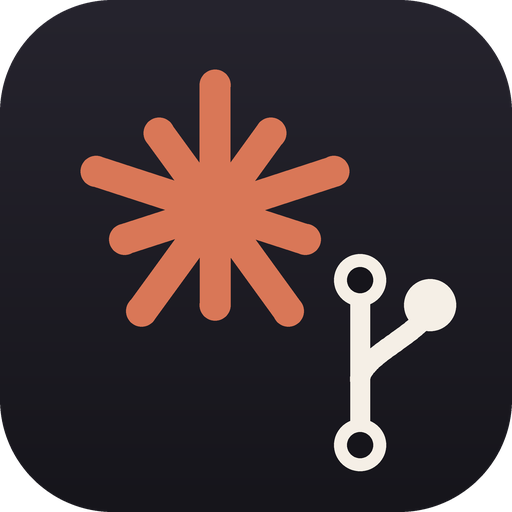
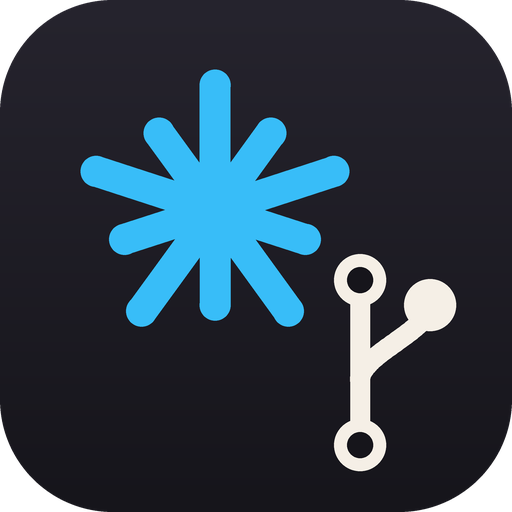
fix(listing): нова назва Commit Pen і блакитна іконка для Marketplace
- displayName: «Commit Pen: AI Commit Messages for Claude Code»
- зірочка в іконці тепер блакитна замість помаранчевої
- старі назви додано в keywords, щоб розширення знаходилось у пошуку
- ID розширення, команди й ключі налаштувань без змін

Changed region(s): [[0.1562, 0.125, 0.6875, 0.6562]]

diff --git a/src/extension.ts b/src/extension.ts
@@ -117,7 +117,7 @@ function getActiveRepository(git: GitAPI, sourceControl?: vscode.SourceControl):
 }
 
 export function activate(context: vscode.ExtensionContext): void {
-  log("Claude Git Commit extension activated");
+  log("Commit Pen extension activated");
   initApiKeyStorage(context);
 
   const generateCommit = vscode.commands.registerCommand(
@@ -164,7 +164,7 @@ export function activate(context: vscode.ExtensionContext): void {
         await vscode.window.withProgress(
           {
             location: vscode.ProgressLocation.Notification,
-            title: "Claude Git Commit",
+            title: "Commit Pen",
             cancellable: true,
           },
           async (progress, token) => {
@@ -309,7 +309,7 @@ async function handleCustomPrompt(repo: GitRepository): Promise<void> {
   const newMessage = await vscode.window.withProgress(
     {
       location: vscode.ProgressLocation.Notification,
-      title: "Claude Git Commit",
+      title: "Commit Pen",
       cancellable: true,
     },
     async (progress, token) => {
@@ -365,7 +365,7 @@ async function handleEditWithFeedback(repo: GitRepository, currentMessage: strin
   const newMessage = await vscode.window.withProgress(
     {
       location: vscode.ProgressLocation.Notification,
-      title: "Claude Git Commit",
+      title: "Commit Pen",
       cancellable: true,
     },
     async (progress, token) => {

diff --git a/src/utils/apiKey.ts b/src/utils/apiKey.ts
@@ -79,7 +79,7 @@ export async function suggestApiKeyMigration(context: vscode.ExtensionContext): 
   await context.globalState.update(MIGRATION_PROMPTED_KEY, true);
 
   const action = await vscode.window.showInformationMessage(
-    "Claude Git Commit: your Anthropic API key is stored in plain text in settings.json. Move it to secure storage?",
+    "Commit Pen: your Anthropic API key is stored in plain text in settings.json. Move it to secure storage?",
     "Move to Secure Storage",
     "Keep in Settings"
   );
@@ -91,7 +91,7 @@ export async function suggestApiKeyMigration(context: vscode.ExtensionContext): 
     await secrets.store(SECRET_KEY, settingKey);
     await config.update("apiKey", undefined, vscode.ConfigurationTarget.Global);
     vscode.window.showInformationMessage(
-      "API key moved to secure storage. Secure storage is not synced — run 'Claude Git Commit: Set Anthropic API Key' on your other machines."
+      "API key moved to secure storage. Secure storage is not synced — run 'Commit Pen: Set Anthropic API Key' on your other machines."
     );
   } catch (error) {
     vscode.window.showErrorMessage(

diff --git a/src/cli/execution.ts b/src/cli/execution.ts
@@ -348,7 +348,7 @@ export async function generateWithAPI(
 
   if (!apiKey) {
     throw new Error(
-      "ANTHROPIC_API_KEY not found. Run 'Claude Git Commit: Set Anthropic API Key' or set the ANTHROPIC_API_KEY environment variable."
+      "ANTHROPIC_API_KEY not found. Run 'Commit Pen: Set Anthropic API Key' or set the ANTHROPIC_API_KEY environment variable."
     );
   }
 
@@ -385,7 +385,7 @@ export async function generateWithAPI(
       throw new GenerationCancelledError();
     }
     if (error instanceof sdk.AuthenticationError) {
-      throw new Error("Invalid API key. Run 'Claude Git Commit: Set Anthropic API Key' to update it.");
+      throw new Error("Invalid API key. Run 'Commit Pen: Set Anthropic API Key' to update it.");
     }
     if (error instanceof sdk.RateLimitError) {
       throw new Error("Rate limit exceeded. Please wait and try again.");

diff --git a/src/generators/commit.ts b/src/generators/commit.ts
@@ -156,7 +156,7 @@ export async function generateCommitMessage(
       const err = error as Error;
       if (cliNotFound && err.message.includes("ANTHROPIC_API_KEY")) {
         throw new Error(
-          "Claude CLI not found and no API key configured. Either configure CLI path in settings or run 'Claude Git Commit: Set Anthropic API Key'."
+          "Claude CLI not found and no API key configured. Either configure CLI path in settings or run 'Commit Pen: Set Anthropic API Key'."
         );
       }
       throw withPrefix("API error", error);

diff --git a/src/utils/logger.ts b/src/utils/logger.ts
@@ -4,7 +4,7 @@ let outputChannel: vscode.OutputChannel | undefined;
 
 export function getOutputChannel(): vscode.OutputChannel {
   if (!outputChannel) {
-    outputChannel = vscode.window.createOutputChannel("Claude Git Commit");
+    outputChannel = vscode.window.createOutputChannel("Commit Pen");
   }
   return outputChannel;
 }

diff --git a/README.md b/README.md
@@ -1,19 +1,21 @@
-<p align="center"><img src="icon.png" width="128" alt="Claude Git Commit icon"></p>
+<p align="center"><img src="icon.png" width="128" alt="Commit Pen icon"></p>
 
-# Claude Git Commit
+# Commit Pen
 
 [![Install](https://img.shields.io/visual-studio-marketplace/i/ZakhariiMelnyk.claude-git-commit?style=for-the-badge&logo=visualstudiocode&label=Installs)](https://marketplace.visualstudio.com/items?itemName=ZakhariiMelnyk.claude-git-commit)
 [![Version](https://img.shields.io/visual-studio-marketplace/v/ZakhariiMelnyk.claude-git-commit?style=for-the-badge&logo=visualstudiocode)](https://marketplace.visualstudio.com/items?itemName=ZakhariiMelnyk.claude-git-commit)
 [![Rating](https://img.shields.io/visual-studio-marketplace/r/ZakhariiMelnyk.claude-git-commit?style=for-the-badge&logo=visualstudiocode)](https://marketplace.visualstudio.com/items?itemName=ZakhariiMelnyk.claude-git-commit)
 [![License](https://img.shields.io/github/license/uaoa/claude-commit-vscode?style=for-the-badge)](LICENSE)
 
-Claude Git Commit writes Git commit messages for you. It reads the diff of your repository, sends it to Claude through the Claude Code CLI you are signed in to (or through the Anthropic API, if you prefer), and puts the result into the Source Control input box. You review it, tweak it if needed, and commit.
+Commit Pen writes Git commit messages for you. It reads the diff of your repository, sends it to Claude through the Claude Code CLI you are signed in to (or through the Anthropic API, if you prefer), and puts the result into the Source Control input box. You review it, tweak it if needed, and commit.
 
-> Claude Git Commit is an independent, community-built extension. It is not made, endorsed or supported by Anthropic. "Claude" and "Claude Code" are trademarks of Anthropic and are used here only to describe what the extension works with.
+Formerly published as **Claude Git Commit**: same extension, same settings, updates continue automatically.
+
+> Commit Pen is an independent, community-built extension. It is not made, endorsed or supported by Anthropic. "Claude" and "Claude Code" are trademarks of Anthropic and are used here only to describe what the extension works with.
 
 ## Highlights
 
-- **Generate from the Source Control title bar.** One click on the `$(sparkle)` action, or run **Claude Git Commit: Generate Commit Message** from the Command Palette.
+- **Generate from the Source Control title bar.** One click on the `$(sparkle)` action, or run **Commit Pen: Generate Commit Message** from the Command Palette.
 - **CLI first, API as a fallback.** Uses the local Claude Code CLI when it is available, so no separate API key is needed. Switch to the Anthropic API with `claudeCommit.preferredMethod`.
 - **Finds the CLI on its own.** Looks in PATH, in the binary shipped with the Claude Code VS Code extension, in your shell profile and in common install folders. The order is configurable, and it works in WSL, Remote-SSH and dev containers.
 - **Your commit style.** Conventional Commits with or without scope, plain descriptions, or your own prompt template with `{diff}` and `{stats}` placeholders. Single-line or multi-line with body and footer, imperative or past tense.
@@ -22,7 +24,7 @@ Claude Git Commit writes Git commit messages for you. It reads the diff of your 
 - **Model choice.** Haiku, Sonnet or Opus, or any exact model ID via `claudeCommit.customModel`.
 - **Several repositories at once.** Picks the repository you clicked in, or the one that contains the active editor.
 - **Safe key storage.** The API key is kept in the OS secret storage, not in `settings.json`.
-- **Cancellable and transparent.** Stop a run from the progress notification; every step is logged to the **Claude Git Commit** output channel.
+- **Cancellable and transparent.** Stop a run from the progress notification; every step is logged to the **Commit Pen** output channel.
 
 ## Requirements
 
@@ -42,8 +44,8 @@ Environment variables such as `BASE_URI` or `ANTHROPIC_API_KEY` from your shell 
 
 ## Getting started
 
-1. Install **Claude Git Commit** from the VS Code Marketplace.
-2. Make sure `claude --version` works in your terminal, or run **Claude Git Commit: Set Anthropic API Key**.
+1. Install **Commit Pen** from the VS Code Marketplace.
+2. Make sure `claude --version` works in your terminal, or run **Commit Pen: Set Anthropic API Key**.
 3. Open a folder with a Git repository and change some files. Staging is optional.
 4. In the Source Control view, click the `$(sparkle)` action in the title bar.
 5. Check the generated message in the input box and commit.
@@ -56,7 +58,7 @@ All settings are optional:
 
 * `claudeCommit.cliPath`: Path to Claude CLI executable (leave empty for auto-detection)
 * `claudeCommit.detectionOrder`: Order of the auto-detection sources (`path`, `vscodeExtension`, `shellProfile`, `commonPaths`) – first hit wins, defaults to `["path", "vscodeExtension", "shellProfile", "commonPaths"]`
-* `claudeCommit.apiKey`: Your Anthropic API key (only needed if using API method). Prefer the command **Claude Git Commit: Set Anthropic API Key**, which stores the key in the OS secret storage instead of plain-text settings
+* `claudeCommit.apiKey`: Your Anthropic API key (only needed if using API method). Prefer the command **Commit Pen: Set Anthropic API Key**, which stores the key in the OS secret storage instead of plain-text settings
 * `claudeCommit.preferredMethod`: Choose AI backend (`auto`, `cli`, or `api`) – defaults to `auto`
 * `claudeCommit.model`: Claude model to use (`haiku`, `sonnet`, `opus`) – defaults to `haiku`
 * `claudeCommit.customModel`: Exact model ID or CLI alias that overrides `claudeCommit.model` (e.g. `claude-opus-5-5`, `sonnet[1m]`) – defaults to empty
@@ -112,7 +114,7 @@ Sources you omit are still tried last as a fallback, so detection never breaks. 
 ```
 
 ### Using Anthropic API as fallback
-Run **Claude Git Commit: Set Anthropic API Key** from the Command Palette — the key is kept in the OS secret storage (Keychain / Credential Manager / libsecret), not in `settings.json`. Then:
+Run **Commit Pen: Set Anthropic API Key** from the Command Palette — the key is kept in the OS secret storage (Keychain / Credential Manager / libsecret), not in `settings.json`. Then:
 ```json
 {
     "claudeCommit.preferredMethod": "auto"
@@ -260,7 +262,7 @@ The extension intelligently handles workspaces with multiple Git repositories:
 
 ### Claude CLI not found
 
-Claude Git Commit uses auto-detection to find Claude CLI **at runtime** without modifying your settings. If it's not found automatically:
+Commit Pen uses auto-detection to find Claude CLI **at runtime** without modifying your settings. If it's not found automatically:
 
 1. **On first use**: The extension will prompt you to configure the path:
    - **Browse for CLI**: Opens a file picker to locate the executable
@@ -308,25 +310,25 @@ Claude Git Commit uses auto-detection to find Claude CLI **at runtime** without 
 2. Check that Claude CLI is properly authenticated
 3. Try using API method as fallback:
    - Get API key from https://console.anthropic.com/
-   - Run **Claude Git Commit: Set Anthropic API Key**
+   - Run **Commit Pen: Set Anthropic API Key**
    - Set `claudeCommit.preferredMethod` to `api`
 
 ### Extension not working
 
 1. Check you're in a Git repository
-2. **Open Output panel** (View → Output) and select **"Claude Git Commit"** from the dropdown
+2. **Open Output panel** (View → Output) and select **"Commit Pen"** from the dropdown
 3. Look for detailed log messages showing:
    - Where the extension is searching for Claude CLI
    - What command is being executed
    - What output (if any) is received from Claude
 4. Try generating a commit message manually via Command Palette:
    - Press `Cmd+Shift+P` (or `Ctrl+Shift+P`)
-   - Type "Claude Git Commit: Generate"
+   - Type "Commit Pen: Generate"
 5. If CLI path is incorrect, clear `claudeCommit.cliPath` in settings to trigger re-detection
 
 ### "Empty response from CLI" error
 
-This error means Claude CLI was found but didn't return any output. **Check the Output panel** (select "Claude Git Commit") for details:
+This error means Claude CLI was found but didn't return any output. **Check the Output panel** (select "Commit Pen") for details:
 
 1. **CLI Path**: Verify the detected path is correct
    - Look for "Found Claude CLI at: ..." in the logs
@@ -375,7 +377,7 @@ The extension uses a login shell (`-l` flag) to ensure these environment variabl
 - The extension has no backend of its own: the diff goes only to Claude, through the CLI or the Anthropic API you configured
 - Nothing is collected, stored or sent anywhere else, and there is no telemetry
 - Sign-in is whatever your Claude Code CLI or API key already uses
-- The API key set via **Claude Git Commit: Set Anthropic API Key** is kept in the OS secret storage, never in settings files
+- The API key set via **Commit Pen: Set Anthropic API Key** is kept in the OS secret storage, never in settings files
 - The Claude CLI runs in a neutral temporary directory, so project files such as `CLAUDE.md` are not read
 - The prompt reaches the CLI through stdin and is never written to disk
 

diff --git a/CLAUDE.md b/CLAUDE.md
@@ -4,7 +4,7 @@
 
 ## Про проект
 
-VS Code розширення **Claude Git Commit** (ID `ZakhariiMelnyk.claude-git-commit` не змінювати) — генерує повідомлення комітів через Claude AI (CLI або API). Публікується в VS Code Marketplace під publisher `ZakhariiMelnyk`.
+VS Code розширення **Commit Pen** (раніше «Claude Git Commit»; ID `ZakhariiMelnyk.claude-git-commit` не змінювати) — генерує повідомлення комітів через Claude AI (CLI або API). Публікується в VS Code Marketplace під publisher `ZakhariiMelnyk`.
 
 - Точка входу: [src/extension.ts](src/extension.ts)
 - Білд: webpack → [dist/extension.js](dist/extension.js)
@@ -88,7 +88,7 @@ npx vsce package             # створити .vsix
 Результат — `claude-git-commit-X.Y.Z.vsix` в корені. `.vsix` файли **закомічені в репозиторій** (історичні релізи) — нові додавати тільки якщо випускаєш вручну без CI.
 
 ## Файли, яких НЕ чіпати без потреби
-- `icon.png`, назва та README — лістинг уже блокували за схожість з `juanlb.claude-commit`. Не повертати оригінальну зірочку Claude без стилізації, не копіювати тексти чи скриншоти інших розширень
+- `icon.png`, назва та README — лістинг блокували за схожість з `juanlb.claude-commit` (помаранчева зірочка і назва «Claude … Commit»). Не повертати помаранчеву зірочку і назву, що починається з «Claude», не копіювати тексти чи скриншоти інших розширень
 - `name`, ID команд `claude-commit.*` і ключі `claudeCommit.*` — зміна зламає оновлення та налаштування існуючих користувачів
 - `package.json` поле `version` — керується релізним процесом
 - `.vscodeignore` — впливає на розмір пакета, перевіряти тест-пакуванням після змін

diff --git a/ICON.md b/ICON.md
@@ -1,9 +1,9 @@
 # Icon
 
-`icon.png` (512×512) is the Claude Git Commit mark: a geometric 10-ray asterisk with rounded ends (a nod to Claude, redrawn from scratch) next to a cream Git branch graph with three commit nodes, on a dark charcoal rounded square.
+`icon.png` (512×512) is the Commit Pen mark: a geometric 10-ray asterisk with rounded ends in sky blue (#38BDF8) next to a cream Git branch graph with three commit nodes, on a dark charcoal rounded square.
 
 Rules for future changes:
-- Do not use the original Claude / Anthropic logo file or another extension's icon unchanged — the Marketplace locked this listing in 2026-10 for duplicating `juanlb.claude-commit` (same orange asterisk).
-- Keep the Git element and the dark tile so the icon stays distinct from other "Claude commit" extensions.
+- Do not go back to the orange (Claude-colored) asterisk or reuse another extension's icon — the Marketplace locked this listing in 2026-10 for duplicating `juanlb.claude-commit`, and rejected the restyled orange asterisk as "still the same".
+- Keep the Git element and the dark tile so the icon stays distinct from other commit-message extensions.
 - Stay within the Marketplace limit (max 1024×1024, PNG). 512×512 is the target.
 - The Source Control button uses VS Code's built-in `$(sparkle)` codicon; that is a standard icon and is fine to keep.
